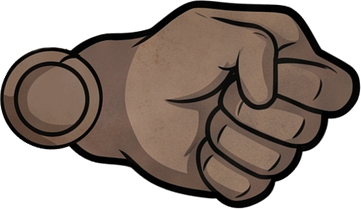
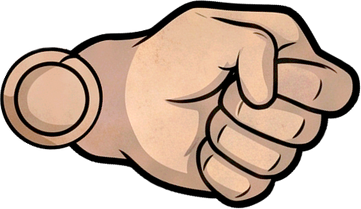
v2.03: arka yumruk ve açık el görselleri güncellendi
Claude-Session: https://claude.ai/code/session_01LDwZLyZhG3Us8fbnE3d5s4

diff --git a/www/index.html b/www/index.html
@@ -49,7 +49,7 @@ canvas{cursor:crosshair}.etiket,.ipucu{pointer-events:none}
 <link rel="stylesheet" href="https://fonts.googleapis.com/css2?family=Bangers&family=Nunito:wght@700;800&display=swap">
 
 <canvas id="c"></canvas>
-<div class="etiket"><b>POPEYE FIGHTER</b>v2.02</div>
+<div class="etiket"><b>POPEYE FIGHTER</b>v2.03</div>
 <div class="ipucu">← → yürü &nbsp; ↑ zıpla &nbsp; J yumruk &nbsp; K tekme &nbsp; ↓ çömel &nbsp; <b>sağ/sol yarıya tık tık: kombo &nbsp; sürükle: sağ yarı ön kol, sol yarı arka kol</b></div>
 <div class="tus" id="asa" aria-label="eğil"></div><div class="tus" id="sol" aria-label="sol"></div><div class="tus" id="sag" aria-label="sağ"></div><div class="tus" id="zipla" aria-label="zıpla"></div>
 <div id="kombolB" aria-label="kombo listesi"></div>
@@ -81,7 +81,7 @@ ADLAR.forEach(a=>{
     R.z_ust_k=koyult(R.z_ust,.3);R.z_onA_k=koyult(R.z_onA,.3);R.z_bacak_k=koyult(R.z_bacak,.36);R.z_ayak_k=koyult(R.z_ayak,.36);      // zombinin arkadaki kolu/bacağı daha koyu   // arkadaki kol: bacaktan daha açık ton
     basla();}};
   im.onerror=()=>{document.getElementById('yuk').textContent='Parça yüklenemedi: '+a};
-  im.src='parca/'+a+'.png?v=38';          // ?v= : görsel değişince tarayıcı eski önbelleği kullanmasın
+  im.src='parca/'+a+'.png?v=39';          // ?v= : görsel değişince tarayıcı eski önbelleği kullanmasın
 });
 const YUZ=[];                      // ana yüz: 0 = tam can ... 9 = çok az can, 10 = ölü
 for(let i=0;i<11;i++){const im=new Image();im.src='yuz/yuz'+i+'.png?v=41';YUZ.push(im)}
